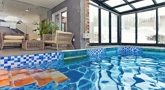
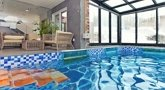
img optimization

diff --git a/src/app/shared/header/header.component.html b/src/app/shared/header/header.component.html
@@ -19,12 +19,12 @@
         <li *ngIf="isLogin"><a routerLink="/mypage/reservation">예약내역</a></li>
         <li *ngIf="isLogin" dropdown>
           <a class="mypage-btn dropdown-toggle" id="mypage-btn" dropdownToggle aria-controls="dropdown-mypage">
-            <img src="assets/img/mypage/profile.png" alt="mypage">
+            <img src="assets/img/mypage/profile.jpg" alt="mypage">
           </a>
           <ul id="dropdown-mypage" *dropdownMenu class="mypage-dropdown dropdown-menu dropdown-menu-right" role="menu" aria-labelledby="mypage-btn">
             <li role="menuitem">
               <a class="dropdown-item" routerLink="/mypage">
-                <img class="rounded-circle" src="assets/img/mypage/profile.png" alt="mypage">
+                <img class="rounded-circle" src="assets/img/mypage/profile.jpg" alt="mypage">
                 <p>{{ nickname }}</p>
                 <p>프로필관리</p>
               </a>

diff --git a/src/app/main/main.component.ts b/src/app/main/main.component.ts
@@ -75,19 +75,19 @@ export class MainComponent implements OnInit {
   popularKeywords = [
     {
       name: '프랜차이즈',
-      img: 'url(/assets/img/main/franchise.png)'
+      img: 'url(/assets/img/main/franchise.jpg)'
     },
     {
       name: '신축/리모델링',
-      img: 'url(/assets/img/main/remodeling.png)'
+      img: 'url(/assets/img/main/remodeling.jpg)'
     },
     {
       name: '초특가 할인',
-      img: 'url(/assets/img/main/super-special.png)'
+      img: 'url(/assets/img/main/super-special.jpg)'
     },
     {
       name: '파티룸',
-      img: 'url(/assets/img/main/party.png)'
+      img: 'url(/assets/img/main/party.jpg)'
     },
     {
       name: '무료영화',

diff --git a/src/app/mypage/account/account.component.html b/src/app/mypage/account/account.component.html
@@ -3,7 +3,7 @@
     <a class="btn-edit" routerLink="/mypage/accountEdit">편집</a>
     <div class="body-content">
       <div class="body-img">
-        <img src="assets/img/mypage/profile.png" class="img-profile">
+        <img src="assets/img/mypage/profile.jpg" class="img-profile">
         <div class="body-text">{{ accountdata.nickname }}</div>
       </div>
       <div class="member-group clearfix">

diff --git a/src/app/mypage/mypage.component.html b/src/app/mypage/mypage.component.html
@@ -5,7 +5,7 @@
       <div class="mypage-side-bar">
         <div class="side-bar-top">
           <div class="side-img">
-            <img src="assets/img/mypage/profile.png" class="img-circle">
+            <img src="assets/img/mypage/profile.jpg" class="img-circle">
           </div>
           <div class="side-top-name">{{ nickname }}</div>
           <div class="side-top-profile">
